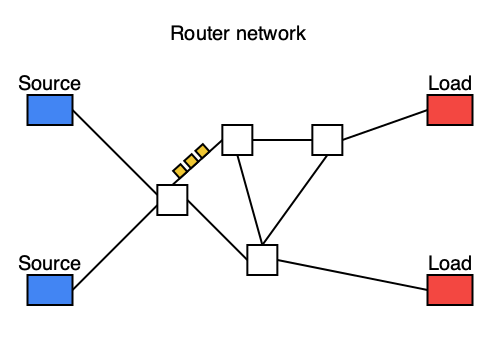
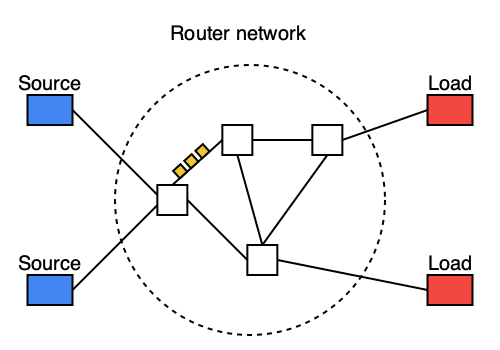
animation

diff --git a/packet_animation.rb b/packet_animation.rb
@@ -71,17 +71,17 @@ phs.each.with_index do |ph, pict_number|
         line_end_point = ctx.current_point
     end
 
-    # ctx.save do
-    #     ctx.translate(width/2, height/2)
+    ctx.save do
+        ctx.translate(width/2, height/2)
 
-    #     ctx.save do
-    #         ctx.stroke do
-    #             ctx.set_source_rgb(0,0,0)
-    #             ctx.arc(0, 0, height * 0.9 / 2, 0, 2*Math::PI)
-    #             ctx.set_dash([5.0, 5.0])
-    #         end
-    #     end
-    # end
+        ctx.save do
+            ctx.stroke do
+                ctx.set_source_rgb(0,0,0)
+                ctx.arc(0, 0, height * 0.9 / 2, 0, 2*Math::PI)
+                ctx.set_dash([5.0, 5.0])
+            end
+        end
+    end
 
     ctx.save do
         power_line_end = Point.new(line_end_point[0] + node_height/2, height/2)
